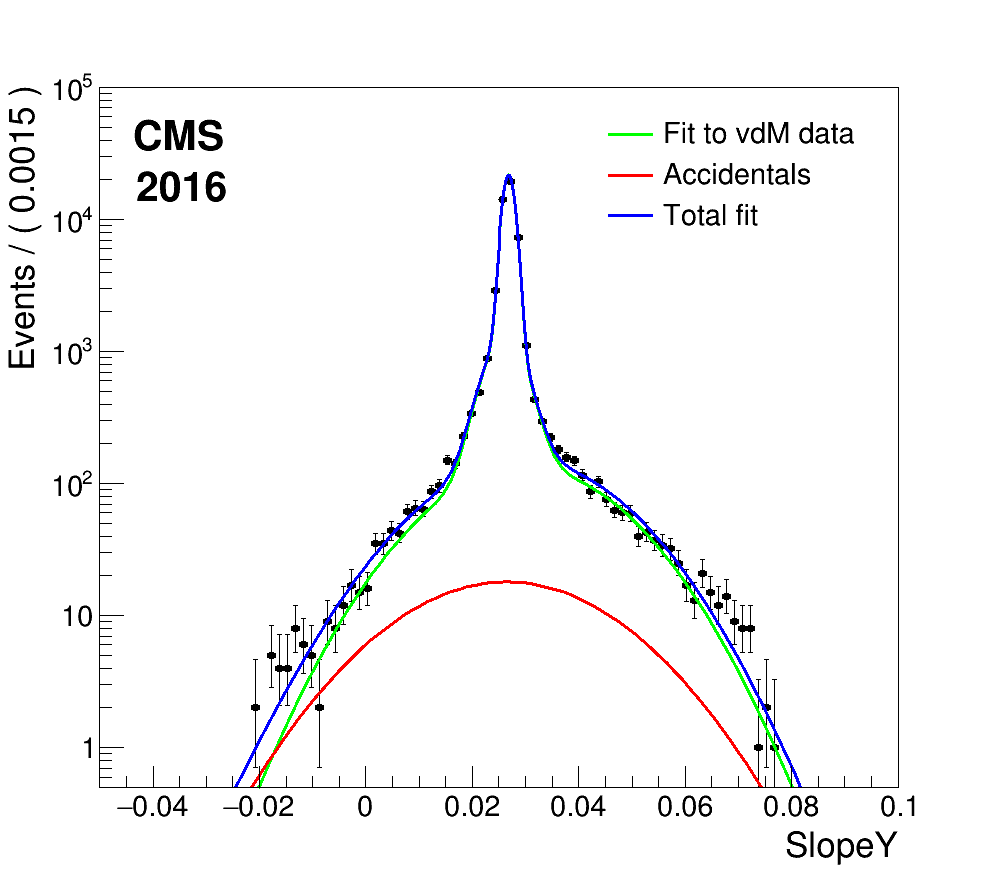
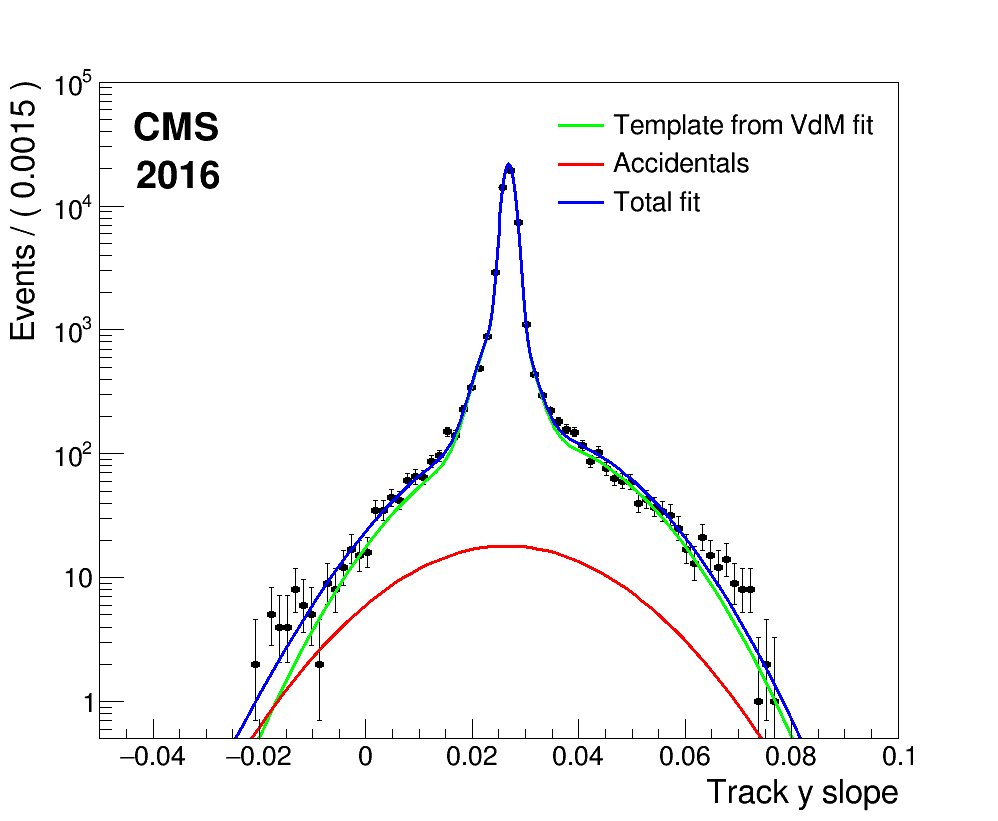
some last fixes to Fig. 10 requested by Gabi

diff --git a/AccidentalLikelihood/fit_model_ggg_g.C b/AccidentalLikelihood/fit_model_ggg_g.C
@@ -84,6 +84,7 @@
 
   frame1->GetXaxis()->SetTitleSize(0.0425);
   frame1->GetYaxis()->SetTitleSize(0.0425);
+  frame1->GetXaxis()->SetTitle("Track y slope");
 
   frame1->GetXaxis()->SetTitleOffset(1.0);
   frame1->GetYaxis()->SetTitleOffset(1.1);
@@ -97,7 +98,7 @@
 
   frame1->Draw();
 
-  TLegend *leg1 = new TLegend(0.60,0.73,0.86,0.87);
+  TLegend *leg1 = new TLegend(0.55,0.73,0.81,0.87);
 
 
 //https://root-forum.cern.ch/t/legend-with-rooplot/10966
@@ -105,7 +106,7 @@
   leg1->SetFillColor(kWhite);
   leg1->SetLineColor(kWhite);
   //leg1->AddEntry("dataSet","Data", "P");
-  leg1->AddEntry("signal","Fit to vdM data", "L");
+  leg1->AddEntry("signal","Template from VdM fit", "L");
   leg1->AddEntry("background","Accidentals", "L");
   leg1->AddEntry("model","Total fit","L");
   leg1->SetTextSize(0.035);
